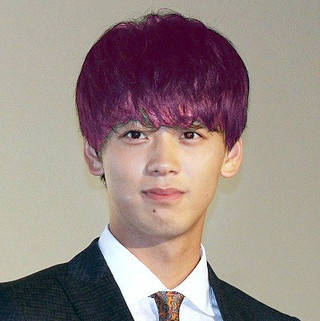
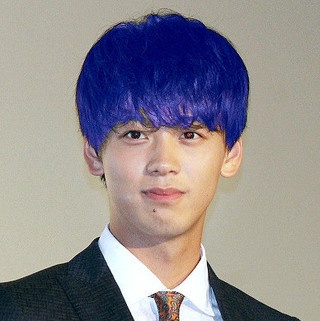
ライブラリのインストール

Changed region(s): [[0.2188, 0.0312, 0.7812, 0.4673]]

diff --git a/Scripts/changeHairColor.py b/Scripts/changeHairColor.py
@@ -68,7 +68,7 @@ def changeColor(imgPath):
                 if (img_test[cnt_y_min + y,cnt_x_min + trim_x + x,0] <= 150 and
                 img_test[cnt_y_min + y,cnt_x_min + trim_x + x,1] <= 150 and
                 img_test[cnt_y_min + y,cnt_x_min + trim_x + x,2] <= 150):
-                    addBGR(img_test,cnt_x_min + trim_x,cnt_y_min,x,y,0,0,85) #b,g,r値を追加！
+                    addBGR(img_test,cnt_x_min + trim_x,cnt_y_min,x,y,85,0,0) #b,g,r値を追加！
                     
                 
     # print(cnt_x_max,cnt_x_min,cnt_y_max,cnt_y_min)
